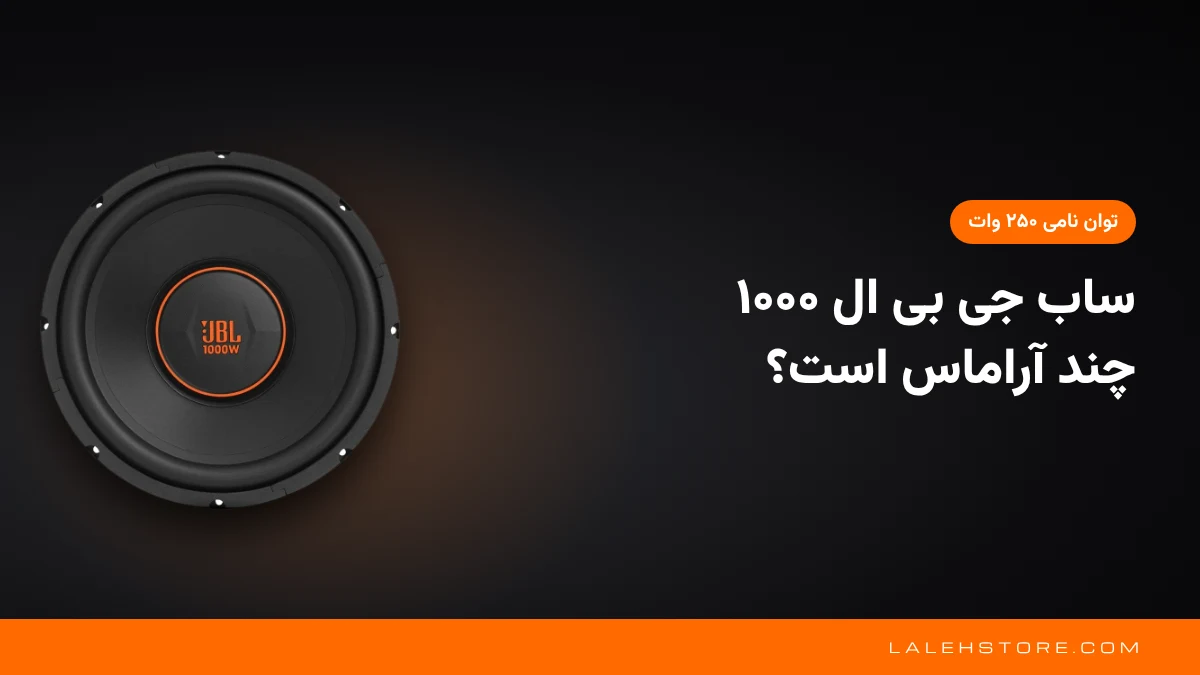
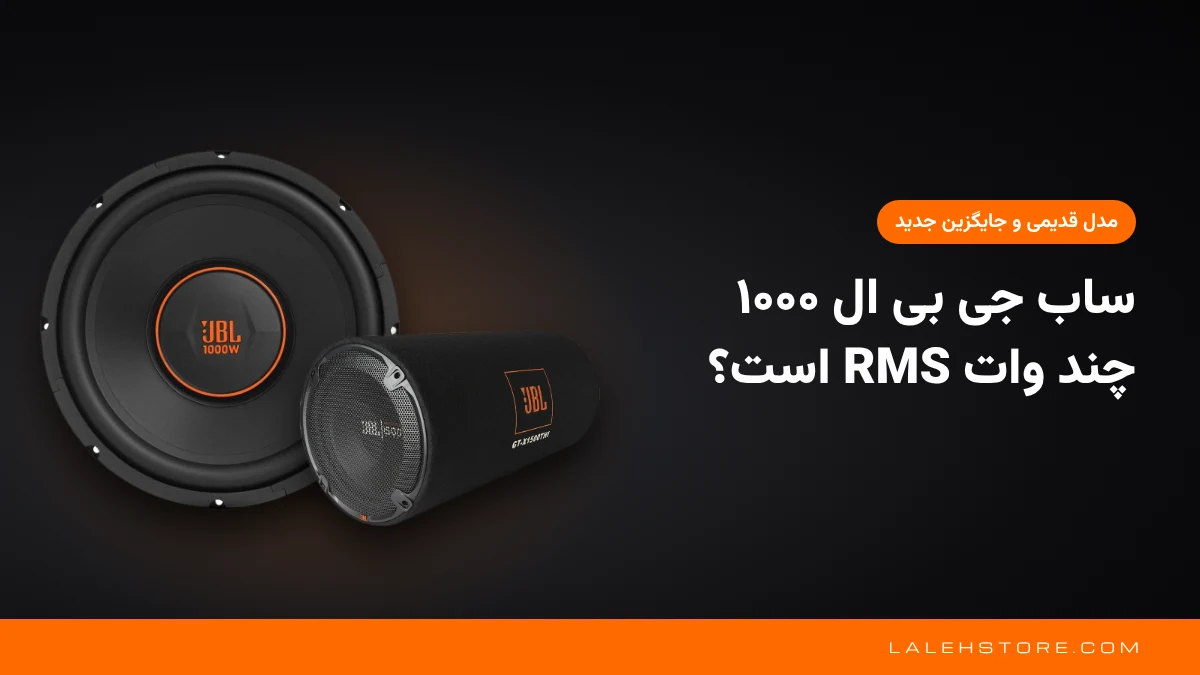
Blog #2 revised: CS1214/CS1214T as the old 'JBL 1000', GX1200 + GT-X1500THI as replacements, RMS wording
Claude-Session: https://claude.ai/code/session_01MPeMad5Ai8FMRRF9wvr7v4

Changed region(s): [[0.2467, 0.4978, 0.4933, 0.8089], [0.5858, 0.4978, 0.8942, 0.5911], [0.7092, 0.28, 0.925, 0.3733]]

diff --git a/blog/02-jbl-1000-subwoofer-rms/article.html b/blog/02-jbl-1000-subwoofer-rms/article.html
@@ -1,21 +1,32 @@
-<p style="text-align:justify;text-justify:inter-word">ساب جی بی ال ۱۰۰۰ در واقع همان <a href="https://lalehstore.com/jbl-gx1200/">ساب جی بی ال GX1200</a> است و توان نامی (RMS) آن ۲۵۰ وات است. عدد 1000W که روی درپوش وسط ساب نوشته شده، توان پیک یعنی حداکثر توان لحظه ای است، نه توان پیوسته. این ساب ۱۲ اینچ، تک کویل ۴ اهم است و به آمپی با خروجی حدود ۲۵۰ وات RMS در ۴ اهم نیاز دارد.</p>
+<p style="text-align:justify;text-justify:inter-word">ساب جی بی ال ۱۰۰۰ در بازار ایران نام مدل CS1214 جی بی ال بود؛ یک ساب ۱۲ اینچ با ۲۵۰ وات RMS و ۱۰۰۰ وات پیک که نسخه ساب باکس لوله ای آن CS1214T نام داشت. تولید CS1214 طبق صفحه رسمی جی بی ال سال ۲۰۱۳ تمام شد و امروز <a href="https://lalehstore.com/jbl-gx1200/">ساب جی بی ال GX1200</a> با همان ۲۵۰ وات RMS و ۴ اهم جایگزین آن است.</p>
 
-<p style="text-align:justify;text-justify:inter-word">در این مقاله مشخصات واقعی ساب جی بی ال ۱۰۰۰ را از روی ویژگیهای ثبت شده محصول میبینید، فرق RMS و پیک را با یک مثال ساده توضیح میدهیم، میگوییم چه آمپی برایش مناسب است و در آخر جایگزینهای جدیدتر جی بی ال را کنار آن مقایسه میکنیم. اگر هنوز بین انواع ساب مردد هستید، اول <a href="https://lalehstore.com/best-car-subwoofer/">راهنمای بهترین ساب ووفر ماشین</a> را بخوانید.</p>
+<p style="text-align:justify;text-justify:inter-word">در این مقاله مشخصات واقعی ساب جی بی ال ۱۰۰۰ قدیمی و ساب باکس آن را از صفحه پشتیبانی رسمی جی بی ال میبینید، آن را با مدلهای جدید مقایسه میکنیم، فرق RMS و پیک را توضیح میدهیم و میگوییم چه آمپی برای جایگزین آن مناسب است. اگر هنوز بین انواع ساب مردد هستید، اول <a href="https://lalehstore.com/best-car-subwoofer/">راهنمای بهترین ساب ووفر ماشین</a> را بخوانید.</p>
 
-{{IMG:jbl-gx1200-1000w-specs}}
+<h2>ساب جی بی ال ۱۰۰۰ کدام مدل بود؟</h2>
+<p style="text-align:justify;text-justify:inter-word">در بازار ایران به ساب ۱۲ اینچ CS1214 جی بی ال «ساب جی بی ال ۱۰۰۰» میگفتند، چون توان پیک آن ۱۰۰۰ وات بود. این ساب و نسخه ساب باکسش سالها از پرطرفدارترین سابهای بازار بودند. عدد ۱۲ در نام مدل به سایز ۱۲ اینچ اشاره دارد و عدد ۱۰۰۰ که خریدارها به خاطر میسپردند، توان پیک است، نه توان پیوسته.</p>
 
-<h2>چرا به GX1200 میگویند ساب جی بی ال ۱۰۰۰؟</h2>
-<p style="text-align:justify;text-justify:inter-word">روی درپوش مرکزی مخروط GX1200 با رنگ نارنجی عبارت JBL 1000W چاپ شده است. خریدار وقتی ساب را در ویترین یا عکس میبیند، همین عدد را به خاطر میسپارد و در بازار ایران این ساب با نام «ساب جی بی ال ۱۰۰۰» شناخته میشود. نام رسمی مدل در کاتالوگ جی بی ال GX1200 است؛ عدد ۱۲ در این نام به سایز ۱۲ اینچ اشاره دارد، نه به توان.</p>
-<p style="text-align:justify;text-justify:inter-word">همین الگو در سابهای دیگر جی بی ال هم دیده میشود. مثلاً روی درپوش <a href="https://lalehstore.com/jbl-a1500hi/">ساب جی بی ال A1500HI</a> عدد 1500 حک شده و به آن «ساب جی بی ال ۱۵۰۰» میگویند. در هر دو مورد، عدد روی درپوش توان پیک است.</p>
+<h3>مشخصات رسمی CS1214 (ساب تکی)</h3>
+<p style="text-align:justify;text-justify:inter-word">طبق صفحه پشتیبانی رسمی جی بی ال:</p>
+<ul>
+<li style="text-align:justify;text-justify:inter-word">سایز: ۱۲ اینچ (۳۰ سانتی متر)، با آهنربای دوبل؛ مناسب باکس بسته، پورت دار و باند پس</li>
+<li style="text-align:justify;text-justify:inter-word">توان RMS: ۲۵۰ وات</li>
+<li style="text-align:justify;text-justify:inter-word">توان پیک: ۱۰۰۰ وات</li>
+<li style="text-align:justify;text-justify:inter-word">مقاومت: ۴ اهم</li>
+<li style="text-align:justify;text-justify:inter-word">حساسیت: ۹۰ دسی بل</li>
+<li style="text-align:justify;text-justify:inter-word">پاسخ فرکانسی: ۳۵ تا ۲۰۰ هرتز</li>
+<li style="text-align:justify;text-justify:inter-word">عمق نصب: ۱۵۳ میلی متر</li>
+<li style="text-align:justify;text-justify:inter-word">سال تولید: ۲۰۰۸ تا ۲۰۱۳</li>
+</ul>
 
-<h3>یک مدل قدیمی با اسم مشابه: Grand Touring GT 1000</h3>
-<p style="text-align:justify;text-justify:inter-word">در صفحه پشتیبانی رسمی جی بی ال مدلی به نام Grand Touring GT 1000 هم ثبت شده که ربطی به GX1200 ندارد. طبق همان صفحه، GT 1000 یک ساب ۱۰ اینچ ۴ اهم بوده که فقط بین سالهای ۱۹۹۸ تا ۱۹۹۹ تولید شده است؛ توان پیشنهادی آمپ برایش ۱۸ تا ۲۵۰ وات RMS، حساسیتش ۹۴ دسی بل و جانشین آن مدل GT 1041 اعلام شده است. نسخه دو کویل آن (GT 1000D) هم بسته به سیم بندی ۲ یا ۸ اهم بوده است. اگر کسی امروز از «ساب جی بی ال ۱۰۰۰ نو» صحبت میکند، منظورش تقریباً همیشه ساب ۱۲ اینچی است که 1000W روی درپوشش نوشته شده، نه این مدل ۲۷ ساله.</p>
+<h3>مشخصات رسمی CS1214T (ساب باکس لوله ای)</h3>
+<p style="text-align:justify;text-justify:inter-word">CS1214T همان ساب ۱۲ اینچ ۱۰۰۰ واتی است که داخل یک باکس لوله ای (Bass Tube) قرار گرفته بود. طبق صفحه رسمی این مدل، توان RMS آن ۲۵۰ وات، توان پیک ۱۰۰۰ وات، مقاومت ۴ اهم، حساسیت ۹۰ دسی بل و پاسخ فرکانسی ۳۵ تا ۲۰۰ هرتز است. ابعاد آن ۱۳ در ۲۶ اینچ (حدود ۳۳ در ۶۶ سانتی متر) اعلام شده است.</p>
+<p style="text-align:justify;text-justify:inter-word">پس جواب کوتاه سؤال «ساب جی بی ال ۱۰۰۰ چند وات RMS است؟» برای هر دو مدل قدیمی ۲۵۰ وات است. این عدد را باید ملاک انتخاب آمپ قرار دهید، نه ۱۰۰۰ وات.</p>
 
-<h2>مشخصات واقعی ساب جی بی ال ۱۰۰۰ (GX1200)</h2>
-<p style="text-align:justify;text-justify:inter-word">عددهای زیر از ویژگیهای ثبت شده در صفحه محصول GX1200 در لاله استور آمده است:</p>
+<h2>جایگزین جدید ساب جی بی ال ۱۰۰۰: GX1200</h2>
+<p style="text-align:justify;text-justify:inter-word">CS1214 دیگر تولید نمی شود و اگر امروز کسی آن را به عنوان «نو» عرضه کند، باید با احتیاط بیشتری بررسی شود. نزدیک ترین مدل فعلی جی بی ال به آن GX1200 است. عددهای زیر از ویژگیهای ثبت شده در صفحه محصول GX1200 در لاله استور آمده است:</p>
 <ul>
 <li style="text-align:justify;text-justify:inter-word">سایز: ۱۲ اینچ (حدود ۳۰ سانتی متر)</li>
-<li style="text-align:justify;text-justify:inter-word">توان نامی (RMS): ۲۵۰ وات</li>
+<li style="text-align:justify;text-justify:inter-word">توان RMS (نامی): ۲۵۰ وات</li>
 <li style="text-align:justify;text-justify:inter-word">حداکثر توان ورودی (پیک): ۱۰۰۰ وات</li>
 <li style="text-align:justify;text-justify:inter-word">مقاومت: ۴ اهم، تک کویل</li>
 <li style="text-align:justify;text-justify:inter-word">پاسخ فرکانسی: ۳۵ تا ۲۰۰ هرتز</li>
@@ -23,15 +34,36 @@
 <li style="text-align:justify;text-justify:inter-word">عمق نصب: ۱۵۲ میلی متر</li>
 <li style="text-align:justify;text-justify:inter-word">ضمانت: ۱۲ ماه ضمانت صوت ایران کیش</li>
 </ul>
-<p style="text-align:justify;text-justify:inter-word">پس جواب کوتاه سؤال «ساب جی بی ال ۱۰۰۰ چند آراماس است؟» میشود ۲۵۰ وات. این عدد را باید ملاک انتخاب آمپ قرار دهید، نه ۱۰۰۰ وات.</p>
+<p style="text-align:justify;text-justify:inter-word">همان طور که میبینید، توان RMS، توان پیک، مقاومت، حساسیت و پاسخ فرکانسی GX1200 با CS1214 یکی است و عمق نصب فقط یک میلی متر کمتر است. یعنی اگر باکسی برای CS1214 دارید، GX1200 از نظر عمق در آن جا میشود و آمپی که برای ساب قبلی داشتید، برای این ساب هم مناسب است. روی درپوش وسط GX1200 هم عبارت JBL 1000W چاپ شده و به همین دلیل امروز به این مدل هم ساب جی بی ال ۱۰۰۰ میگویند.</p>
+
+{{IMG:jbl-gx1200-1000w-specs}}
+
+<div class="ls-table-scroll" style="overflow-x:auto;-webkit-overflow-scrolling:touch;max-width:100%;margin:0 0 1.5em">
+<table style="width:100%;border-collapse:collapse;font-size:14px;line-height:1.7;margin:0">
+<thead><tr><th style="padding:8px 10px;vertical-align:middle;border-bottom:1px solid #e3e3e3;text-align:right;white-space:normal;min-width:120px;max-width:170px;background:#f4f4f4;font-weight:700">مشخصه</th><th style="padding:8px 10px;vertical-align:middle;border-bottom:1px solid #e3e3e3;text-align:center;white-space:nowrap;background:#f4f4f4;font-weight:700">CS1214 (قدیمی)</th><th style="padding:8px 10px;vertical-align:middle;border-bottom:1px solid #e3e3e3;text-align:center;white-space:nowrap;background:#f4f4f4;font-weight:700">GX1200 (جدید)</th></tr></thead>
+<tbody>
+<tr><td style="padding:8px 10px;vertical-align:middle;border-bottom:1px solid #e3e3e3;text-align:right;white-space:normal;min-width:120px;max-width:170px">سایز (اینچ)</td><td style="padding:8px 10px;vertical-align:middle;border-bottom:1px solid #e3e3e3;text-align:center;white-space:nowrap">12</td><td style="padding:8px 10px;vertical-align:middle;border-bottom:1px solid #e3e3e3;text-align:center;white-space:nowrap">12</td></tr>
+<tr><td style="padding:8px 10px;vertical-align:middle;border-bottom:1px solid #e3e3e3;text-align:right;white-space:normal;min-width:120px;max-width:170px">توان RMS (وات)</td><td style="padding:8px 10px;vertical-align:middle;border-bottom:1px solid #e3e3e3;text-align:center;white-space:nowrap">250</td><td style="padding:8px 10px;vertical-align:middle;border-bottom:1px solid #e3e3e3;text-align:center;white-space:nowrap">250</td></tr>
+<tr><td style="padding:8px 10px;vertical-align:middle;border-bottom:1px solid #e3e3e3;text-align:right;white-space:normal;min-width:120px;max-width:170px">توان پیک (وات)</td><td style="padding:8px 10px;vertical-align:middle;border-bottom:1px solid #e3e3e3;text-align:center;white-space:nowrap">1000</td><td style="padding:8px 10px;vertical-align:middle;border-bottom:1px solid #e3e3e3;text-align:center;white-space:nowrap">1000</td></tr>
+<tr><td style="padding:8px 10px;vertical-align:middle;border-bottom:1px solid #e3e3e3;text-align:right;white-space:normal;min-width:120px;max-width:170px">مقاومت (اهم)</td><td style="padding:8px 10px;vertical-align:middle;border-bottom:1px solid #e3e3e3;text-align:center;white-space:nowrap">4</td><td style="padding:8px 10px;vertical-align:middle;border-bottom:1px solid #e3e3e3;text-align:center;white-space:nowrap">4</td></tr>
+<tr><td style="padding:8px 10px;vertical-align:middle;border-bottom:1px solid #e3e3e3;text-align:right;white-space:normal;min-width:120px;max-width:170px">حساسیت (dB)</td><td style="padding:8px 10px;vertical-align:middle;border-bottom:1px solid #e3e3e3;text-align:center;white-space:nowrap">90</td><td style="padding:8px 10px;vertical-align:middle;border-bottom:1px solid #e3e3e3;text-align:center;white-space:nowrap">90</td></tr>
+<tr><td style="padding:8px 10px;vertical-align:middle;border-bottom:1px solid #e3e3e3;text-align:right;white-space:normal;min-width:120px;max-width:170px">پاسخ فرکانسی (هرتز)</td><td style="padding:8px 10px;vertical-align:middle;border-bottom:1px solid #e3e3e3;text-align:center;white-space:nowrap">35 – 200</td><td style="padding:8px 10px;vertical-align:middle;border-bottom:1px solid #e3e3e3;text-align:center;white-space:nowrap">35 – 200</td></tr>
+<tr><td style="padding:8px 10px;vertical-align:middle;border-bottom:1px solid #e3e3e3;text-align:right;white-space:normal;min-width:120px;max-width:170px">عمق نصب (میلی متر)</td><td style="padding:8px 10px;vertical-align:middle;border-bottom:1px solid #e3e3e3;text-align:center;white-space:nowrap">153</td><td style="padding:8px 10px;vertical-align:middle;border-bottom:1px solid #e3e3e3;text-align:center;white-space:nowrap">152</td></tr>
+</tbody></table></div>
+
+<h2>جایگزین ساب باکس جی بی ال ۱۰۰۰: GT-X1500THI</h2>
+<p style="text-align:justify;text-justify:inter-word">اگر ساب باکس لوله ای CS1214T را میخواستید، جایگزین امروزی آن <a href="https://lalehstore.com/jbl-gt-x1500t/">ساب باکس جی بی ال GT-X1500THI</a> است؛ یک ساب ۱۲ اینچ که داخل باکس لوله ای پورت دار آماده نصب عرضه میشود. طبق صفحه محصول، توان RMS آن ۳۲۵ وات، توان پیک ۱۵۰۰ وات، مقاومت ۴ اهم، حساسیت ۹۰ دسی بل و پاسخ فرکانسی ۳۵ تا ۲۰۰ هرتز است. ابعاد آن هم حدود ۳۳ در ۶۶ سانتی متر است، یعنی تقریباً همان جایی را در صندوق میگیرد که CS1214T میگرفت.</p>
+<p style="text-align:justify;text-justify:inter-word">تفاوت اصلی این است که GT-X1500THI حدود ۷۵ وات RMS بیشتر از مدل قدیمی تحمل میکند. با آمپی که برای CS1214T داشتید هم کار میکند، اما برای استفاده از تمام توانش آمپی با خروجی حدود ۳۲۵ وات RMS در ۴ اهم لازم است. روی درپوش این ساب عدد 1500 دیده میشود و در بازار به آن ساب باکس جی بی ال ۱۵۰۰ هم میگویند.</p>
+
+{{IMG:jbl-1000-old-vs-new-sub-tube}}
 
 <h2>RMS و پیک چه فرقی دارند؟</h2>
 <p style="text-align:justify;text-justify:inter-word">توان RMS یا نامی، توانی است که ساب میتواند به صورت پیوسته و طولانی تحمل کند، مثلاً وقتی یک آهنگ پربیس را چند دقیقه با صدای بلند پخش میکنید. توان پیک، حداکثر توانی است که ساب فقط در یک لحظه کوتاه، مثل یک ضربه ناگهانی درام، تحمل میکند.</p>
-<p style="text-align:justify;text-justify:inter-word">مثال ساده: اگر یک آمپ ۱۰۰۰ وات RMS به GX1200 بدهید و ولوم را بالا ببرید، ساب چهار برابر توان پیوسته ای که برایش طراحی شده را دریافت میکند و کویل آن داغ میشود. برعکس، اگر آمپ خیلی ضعیف باشد، بیس در ولوم بالا کم جان میشود و آمپ زودتر به اعوجاج (کلیپ) میرسد. بهترین حالت آمپی است که خروجی RMS آن نزدیک ۲۵۰ وات در ۴ اهم باشد.</p>
-<p style="text-align:justify;text-justify:inter-word">یک نکته دیگر: عدد «حداکثر توان» روی جعبه آمپها هم معمولاً پیک است. مثلاً آمپ کنوود 804 روی کاغذ ۱۰۰۰ وات حداکثر توان دارد، اما توان نامی آن ۸۰ وات RMS در هر کانال در ۴ اهم است. برای جفت کردن ساب و آمپ، همیشه RMS را با RMS مقایسه کنید.</p>
+<p style="text-align:justify;text-justify:inter-word">مثال ساده: اگر یک آمپ ۱۰۰۰ وات RMS به یک ساب ۲۵۰ وات RMS بدهید و ولوم را بالا ببرید، ساب چهار برابر توان پیوسته ای که برایش طراحی شده را دریافت میکند و کویل آن داغ میشود. برعکس، اگر آمپ خیلی ضعیف باشد، بیس در ولوم بالا کم جان میشود و آمپ زودتر به اعوجاج (کلیپ) میرسد. بهترین حالت آمپی است که خروجی RMS آن نزدیک توان RMS ساب باشد.</p>
+<p style="text-align:justify;text-justify:inter-word">عدد «حداکثر توان» روی جعبه آمپها هم معمولاً پیک است. مثلاً آمپ کنوود 804 روی کاغذ ۱۰۰۰ وات حداکثر توان دارد، اما توان RMS آن ۸۰ وات در هر کانال در ۴ اهم است. برای جفت کردن ساب و آمپ، همیشه RMS را با RMS مقایسه کنید.</p>
 
 <h2>ساب جی بی ال ۱۰۰۰ با چه آمپی کار میکند؟</h2>
-<p style="text-align:justify;text-justify:inter-word">GX1200 ساب پسیو است و بدون آمپ جدا کار نمی کند؛ خروجی پخش ماشین برای راه انداختن آن کافی نیست. چون کویل آن ۴ اهم است، دو راه رایج دارید:</p>
+<p style="text-align:justify;text-justify:inter-word">CS1214 و جایگزینش GX1200 هر دو ساب پسیو هستند و بدون آمپ جدا کار نمی کنند؛ خروجی پخش ماشین برای راه انداختن آنها کافی نیست. چون کویل آنها ۴ اهم است، دو راه رایج دارید:</p>
 <h3>۱. آمپ ۴ کانال با بریج کردن دو کانال</h3>
 <p style="text-align:justify;text-justify:inter-word">اگر میخواهید با یک آمپ هم باندهای جلو و هم ساب را راه بیندازید، آمپ ۴ کانالی که قابلیت بریج دارد انتخاب منطقی است. دو کانال به باندها میرود و دو کانال دیگر به صورت بریج به ساب وصل میشود. طبق صفحه محصول، <a href="https://lalehstore.com/jbl-concert-a704/">آمپلی فایر جی بی ال Concert A704</a> در هر کانال ۷۰ وات RMS در ۴ اهم و در حالت بریج ۱۸۰ وات در ۴ اهم میدهد. آمپلی فایر کنوود 804 هم ۸۰ وات RMS در هر کانال و در بریج ۱۷۰ وات در ۴ اهم دارد. هر دو کمتر از ۲۵۰ وات هستند، یعنی ساب با توانی پایین تر از سقف نامی اش کار میکند؛ این حالت ایمن است و برای بیشتر کاربران بیس کافی میدهد.</p>
 
@@ -49,59 +81,46 @@
 </ul>
 <p style="text-align:justify;text-justify:inter-word">همه مدلهای آمپ را در <a href="https://lalehstore.com/amplifier/">دسته آمپلی فایر ماشین</a> ببینید.</p>
 
-<h2>باکس مناسب ساب جی بی ال ۱۰۰۰</h2>
-<p style="text-align:justify;text-justify:inter-word">GX1200 مثل هر ساب تکی باید در باکس نصب شود؛ ساب بدون باکس بیس عمیق تولید نمی کند، چون موج جلو و پشت مخروط همدیگر را خنثی میکنند. باکس بسته بیس جمع و دقیق تری میدهد و باکس پورت دار (دریچه دار) در همان توان، بیس بلندتر و پرحجم تری دارد اما جای بیشتری در صندوق میگیرد. عمق نصب این ساب ۱۵۲ میلی متر است؛ یعنی باکس باید از داخل کمی بیشتر از ۱۵ سانتی متر عمق داشته باشد.</p>
+<h2>باکس مناسب برای ساب تکی</h2>
+<p style="text-align:justify;text-justify:inter-word">ساب تکی مثل CS1214 یا GX1200 باید در باکس نصب شود؛ ساب بدون باکس بیس عمیق تولید نمی کند، چون موج جلو و پشت مخروط همدیگر را خنثی میکنند. باکس بسته بیس جمع و دقیق تری میدهد و باکس پورت دار (دریچه دار) در همان توان، بیس بلندتر و پرحجم تری دارد اما جای بیشتری در صندوق میگیرد. عمق نصب GX1200 ۱۵۲ میلی متر است؛ یعنی باکس باید از داخل کمی بیشتر از ۱۵ سانتی متر عمق داشته باشد. اگر نمی خواهید باکس جدا بسازید، ساب باکس آماده GT-X1500THI انتخاب ساده تری است.</p>
 
-<h2>جایگزینهای جدید ساب جی بی ال ۱۰۰۰</h2>
-<p style="text-align:justify;text-justify:inter-word">اگر دنبال ساب جی بی ال ۱۰۰۰ هستید، چند مدل دیگر هم هست که بسته به فضای صندوق و آمپ شما ممکن است انتخاب بهتری باشند. جدول زیر فقط از ویژگیهای ثبت شده در صفحات محصول سایت ساخته شده است:</p>
+<h2>گزینههای دیگر جی بی ال کنار ساب ۱۰۰۰</h2>
+<p style="text-align:justify;text-justify:inter-word">بسته به فضای صندوق و آمپ شما، این مدلها هم ارزش دیدن دارند. جدول زیر فقط از ویژگیهای ثبت شده در صفحات محصول سایت ساخته شده است:</p>
 
 <div class="ls-table-scroll" style="overflow-x:auto;-webkit-overflow-scrolling:touch;max-width:100%;margin:0 0 1.5em">
 <table style="width:100%;border-collapse:collapse;font-size:14px;line-height:1.7;margin:0">
-<thead><tr>
-<th style="padding:8px 10px;text-align:right;vertical-align:middle;white-space:normal;min-width:120px;max-width:170px;border-bottom:1px solid #e3e3e3;background:#f4f4f4;font-weight:700">مدل</th>
-<th style="padding:8px 10px;text-align:center;vertical-align:middle;white-space:nowrap;border-bottom:1px solid #e3e3e3;background:#f4f4f4;font-weight:700">سایز (اینچ)</th>
-<th style="padding:8px 10px;text-align:center;vertical-align:middle;white-space:nowrap;border-bottom:1px solid #e3e3e3;background:#f4f4f4;font-weight:700">RMS (وات)</th>
-<th style="padding:8px 10px;text-align:center;vertical-align:middle;white-space:nowrap;border-bottom:1px solid #e3e3e3;background:#f4f4f4;font-weight:700">پیک (وات)</th>
-<th style="padding:8px 10px;text-align:center;vertical-align:middle;white-space:nowrap;border-bottom:1px solid #e3e3e3;background:#f4f4f4;font-weight:700">مقاومت (اهم)</th>
-<th style="padding:8px 10px;text-align:center;vertical-align:middle;white-space:nowrap;border-bottom:1px solid #e3e3e3;background:#f4f4f4;font-weight:700">حساسیت (dB)</th>
-</tr></thead>
+<thead><tr><th style="padding:8px 10px;vertical-align:middle;border-bottom:1px solid #e3e3e3;text-align:right;white-space:normal;min-width:120px;max-width:170px;background:#f4f4f4;font-weight:700">مدل</th><th style="padding:8px 10px;vertical-align:middle;border-bottom:1px solid #e3e3e3;text-align:center;white-space:nowrap;background:#f4f4f4;font-weight:700">سایز (اینچ)</th><th style="padding:8px 10px;vertical-align:middle;border-bottom:1px solid #e3e3e3;text-align:center;white-space:nowrap;background:#f4f4f4;font-weight:700">RMS (وات)</th><th style="padding:8px 10px;vertical-align:middle;border-bottom:1px solid #e3e3e3;text-align:center;white-space:nowrap;background:#f4f4f4;font-weight:700">پیک (وات)</th><th style="padding:8px 10px;vertical-align:middle;border-bottom:1px solid #e3e3e3;text-align:center;white-space:nowrap;background:#f4f4f4;font-weight:700">مقاومت (اهم)</th><th style="padding:8px 10px;vertical-align:middle;border-bottom:1px solid #e3e3e3;text-align:center;white-space:nowrap;background:#f4f4f4;font-weight:700">حساسیت (dB)</th></tr></thead>
 <tbody>
-<tr><td style="padding:8px 10px;text-align:right;vertical-align:middle;white-space:normal;min-width:120px;max-width:170px;border-bottom:1px solid #e3e3e3"><a href="https://lalehstore.com/jbl-gx1200/">GX1200</a><br><small>ساب جی بی ال ۱۰۰۰</small></td><td style="padding:8px 10px;text-align:center;vertical-align:middle;white-space:nowrap;border-bottom:1px solid #e3e3e3">12</td><td style="padding:8px 10px;text-align:center;vertical-align:middle;white-space:nowrap;border-bottom:1px solid #e3e3e3">250</td><td style="padding:8px 10px;text-align:center;vertical-align:middle;white-space:nowrap;border-bottom:1px solid #e3e3e3">1000</td><td style="padding:8px 10px;text-align:center;vertical-align:middle;white-space:nowrap;border-bottom:1px solid #e3e3e3">4</td><td style="padding:8px 10px;text-align:center;vertical-align:middle;white-space:nowrap;border-bottom:1px solid #e3e3e3">90</td></tr>
-<tr><td style="padding:8px 10px;text-align:right;vertical-align:middle;white-space:normal;min-width:120px;max-width:170px;border-bottom:1px solid #e3e3e3"><a href="https://lalehstore.com/jbl-stage-122/">Stage 122</a></td><td style="padding:8px 10px;text-align:center;vertical-align:middle;white-space:nowrap;border-bottom:1px solid #e3e3e3">12</td><td style="padding:8px 10px;text-align:center;vertical-align:middle;white-space:nowrap;border-bottom:1px solid #e3e3e3">250</td><td style="padding:8px 10px;text-align:center;vertical-align:middle;white-space:nowrap;border-bottom:1px solid #e3e3e3">1000</td><td style="padding:8px 10px;text-align:center;vertical-align:middle;white-space:nowrap;border-bottom:1px solid #e3e3e3">4</td><td style="padding:8px 10px;text-align:center;vertical-align:middle;white-space:nowrap;border-bottom:1px solid #e3e3e3">91</td></tr>
-<tr><td style="padding:8px 10px;text-align:right;vertical-align:middle;white-space:normal;min-width:120px;max-width:170px;border-bottom:1px solid #e3e3e3"><a href="https://lalehstore.com/jbl-club-ws1200/">Club WS1200</a><br><small>کم عمق</small></td><td style="padding:8px 10px;text-align:center;vertical-align:middle;white-space:nowrap;border-bottom:1px solid #e3e3e3">12</td><td style="padding:8px 10px;text-align:center;vertical-align:middle;white-space:nowrap;border-bottom:1px solid #e3e3e3">250</td><td style="padding:8px 10px;text-align:center;vertical-align:middle;white-space:nowrap;border-bottom:1px solid #e3e3e3">1000</td><td style="padding:8px 10px;text-align:center;vertical-align:middle;white-space:nowrap;border-bottom:1px solid #e3e3e3">2 / 4</td><td style="padding:8px 10px;text-align:center;vertical-align:middle;white-space:nowrap;border-bottom:1px solid #e3e3e3">92</td></tr>
-<tr><td style="padding:8px 10px;text-align:right;vertical-align:middle;white-space:normal;min-width:120px;max-width:170px;border-bottom:1px solid #e3e3e3"><a href="https://lalehstore.com/jbl-a1500hi/">A1500HI</a><br><small>ساب جی بی ال ۱۵۰۰</small></td><td style="padding:8px 10px;text-align:center;vertical-align:middle;white-space:nowrap;border-bottom:1px solid #e3e3e3">12</td><td style="padding:8px 10px;text-align:center;vertical-align:middle;white-space:nowrap;border-bottom:1px solid #e3e3e3">325</td><td style="padding:8px 10px;text-align:center;vertical-align:middle;white-space:nowrap;border-bottom:1px solid #e3e3e3">1500</td><td style="padding:8px 10px;text-align:center;vertical-align:middle;white-space:nowrap;border-bottom:1px solid #e3e3e3">4</td><td style="padding:8px 10px;text-align:center;vertical-align:middle;white-space:nowrap;border-bottom:1px solid #e3e3e3">90</td></tr>
-<tr><td style="padding:8px 10px;text-align:right;vertical-align:middle;white-space:normal;min-width:120px;max-width:170px;border-bottom:1px solid #e3e3e3">Stage 102</td><td style="padding:8px 10px;text-align:center;vertical-align:middle;white-space:nowrap;border-bottom:1px solid #e3e3e3">10</td><td style="padding:8px 10px;text-align:center;vertical-align:middle;white-space:nowrap;border-bottom:1px solid #e3e3e3">225</td><td style="padding:8px 10px;text-align:center;vertical-align:middle;white-space:nowrap;border-bottom:1px solid #e3e3e3">900</td><td style="padding:8px 10px;text-align:center;vertical-align:middle;white-space:nowrap;border-bottom:1px solid #e3e3e3">4</td><td style="padding:8px 10px;text-align:center;vertical-align:middle;white-space:nowrap;border-bottom:1px solid #e3e3e3">89</td></tr>
+<tr><td style="padding:8px 10px;vertical-align:middle;border-bottom:1px solid #e3e3e3;text-align:right;white-space:normal;min-width:120px;max-width:170px"><a href="https://lalehstore.com/jbl-gx1200/">GX1200</a><br><small>جایگزین CS1214</small></td><td style="padding:8px 10px;vertical-align:middle;border-bottom:1px solid #e3e3e3;text-align:center;white-space:nowrap">12</td><td style="padding:8px 10px;vertical-align:middle;border-bottom:1px solid #e3e3e3;text-align:center;white-space:nowrap">250</td><td style="padding:8px 10px;vertical-align:middle;border-bottom:1px solid #e3e3e3;text-align:center;white-space:nowrap">1000</td><td style="padding:8px 10px;vertical-align:middle;border-bottom:1px solid #e3e3e3;text-align:center;white-space:nowrap">4</td><td style="padding:8px 10px;vertical-align:middle;border-bottom:1px solid #e3e3e3;text-align:center;white-space:nowrap">90</td></tr>
+<tr><td style="padding:8px 10px;vertical-align:middle;border-bottom:1px solid #e3e3e3;text-align:right;white-space:normal;min-width:120px;max-width:170px"><a href="https://lalehstore.com/jbl-stage-122/">Stage 122</a></td><td style="padding:8px 10px;vertical-align:middle;border-bottom:1px solid #e3e3e3;text-align:center;white-space:nowrap">12</td><td style="padding:8px 10px;vertical-align:middle;border-bottom:1px solid #e3e3e3;text-align:center;white-space:nowrap">250</td><td style="padding:8px 10px;vertical-align:middle;border-bottom:1px solid #e3e3e3;text-align:center;white-space:nowrap">1000</td><td style="padding:8px 10px;vertical-align:middle;border-bottom:1px solid #e3e3e3;text-align:center;white-space:nowrap">4</td><td style="padding:8px 10px;vertical-align:middle;border-bottom:1px solid #e3e3e3;text-align:center;white-space:nowrap">91</td></tr>
+<tr><td style="padding:8px 10px;vertical-align:middle;border-bottom:1px solid #e3e3e3;text-align:right;white-space:normal;min-width:120px;max-width:170px"><a href="https://lalehstore.com/jbl-club-ws1200/">Club WS1200</a><br><small>کم عمق</small></td><td style="padding:8px 10px;vertical-align:middle;border-bottom:1px solid #e3e3e3;text-align:center;white-space:nowrap">12</td><td style="padding:8px 10px;vertical-align:middle;border-bottom:1px solid #e3e3e3;text-align:center;white-space:nowrap">250</td><td style="padding:8px 10px;vertical-align:middle;border-bottom:1px solid #e3e3e3;text-align:center;white-space:nowrap">1000</td><td style="padding:8px 10px;vertical-align:middle;border-bottom:1px solid #e3e3e3;text-align:center;white-space:nowrap">2 / 4</td><td style="padding:8px 10px;vertical-align:middle;border-bottom:1px solid #e3e3e3;text-align:center;white-space:nowrap">92</td></tr>
+<tr><td style="padding:8px 10px;vertical-align:middle;border-bottom:1px solid #e3e3e3;text-align:right;white-space:normal;min-width:120px;max-width:170px">A1500HI<br><small>ساب جی بی ال ۱۵۰۰</small></td><td style="padding:8px 10px;vertical-align:middle;border-bottom:1px solid #e3e3e3;text-align:center;white-space:nowrap">12</td><td style="padding:8px 10px;vertical-align:middle;border-bottom:1px solid #e3e3e3;text-align:center;white-space:nowrap">325</td><td style="padding:8px 10px;vertical-align:middle;border-bottom:1px solid #e3e3e3;text-align:center;white-space:nowrap">1500</td><td style="padding:8px 10px;vertical-align:middle;border-bottom:1px solid #e3e3e3;text-align:center;white-space:nowrap">4</td><td style="padding:8px 10px;vertical-align:middle;border-bottom:1px solid #e3e3e3;text-align:center;white-space:nowrap">90</td></tr>
+<tr><td style="padding:8px 10px;vertical-align:middle;border-bottom:1px solid #e3e3e3;text-align:right;white-space:normal;min-width:120px;max-width:170px"><a href="https://lalehstore.com/jbl-gt-x1500t/">GT-X1500THI</a><br><small>ساب باکس لوله ای</small></td><td style="padding:8px 10px;vertical-align:middle;border-bottom:1px solid #e3e3e3;text-align:center;white-space:nowrap">12</td><td style="padding:8px 10px;vertical-align:middle;border-bottom:1px solid #e3e3e3;text-align:center;white-space:nowrap">325</td><td style="padding:8px 10px;vertical-align:middle;border-bottom:1px solid #e3e3e3;text-align:center;white-space:nowrap">1500</td><td style="padding:8px 10px;vertical-align:middle;border-bottom:1px solid #e3e3e3;text-align:center;white-space:nowrap">4</td><td style="padding:8px 10px;vertical-align:middle;border-bottom:1px solid #e3e3e3;text-align:center;white-space:nowrap">90</td></tr>
+<tr><td style="padding:8px 10px;vertical-align:middle;border-bottom:1px solid #e3e3e3;text-align:right;white-space:normal;min-width:120px;max-width:170px">Stage 102</td><td style="padding:8px 10px;vertical-align:middle;border-bottom:1px solid #e3e3e3;text-align:center;white-space:nowrap">10</td><td style="padding:8px 10px;vertical-align:middle;border-bottom:1px solid #e3e3e3;text-align:center;white-space:nowrap">225</td><td style="padding:8px 10px;vertical-align:middle;border-bottom:1px solid #e3e3e3;text-align:center;white-space:nowrap">900</td><td style="padding:8px 10px;vertical-align:middle;border-bottom:1px solid #e3e3e3;text-align:center;white-space:nowrap">4</td><td style="padding:8px 10px;vertical-align:middle;border-bottom:1px solid #e3e3e3;text-align:center;white-space:nowrap">89</td></tr>
 </tbody></table></div>
 
-<h3>Stage 122؛ نزدیک ترین جایگزین</h3>
-<p style="text-align:justify;text-justify:inter-word"><a href="https://lalehstore.com/jbl-stage-122/">ساب جی بی ال Stage 122</a> روی کاغذ تقریباً هم رده GX1200 است: ۱۲ اینچ، ۲۵۰ وات RMS، ۱۰۰۰ وات پیک و ۴ اهم. تفاوت در جزئیات است: حساسیت ۹۱ دسی بل در برابر ۹۰ و پاسخ فرکانسی از ۳۴ هرتز در برابر ۳۵. عمق نصب هر دو حدود ۱۵ سانتی متر است، پس در همان باکس جا میشوند و آمپ مناسبشان هم یکی است.</p>
+<h3>Stage 122؛ هم رده GX1200</h3>
+<p style="text-align:justify;text-justify:inter-word"><a href="https://lalehstore.com/jbl-stage-122/">ساب جی بی ال Stage 122</a> روی کاغذ هم رده GX1200 است: ۱۲ اینچ، ۲۵۰ وات RMS، ۱۰۰۰ وات پیک و ۴ اهم. تفاوت در جزئیات است: حساسیت ۹۱ دسی بل در برابر ۹۰ و پاسخ فرکانسی از ۳۴ هرتز در برابر ۳۵. عمق نصب هر دو حدود ۱۵ سانتی متر است، پس در همان باکس جا میشوند و آمپ مناسبشان هم یکی است.</p>
 <h3>Club WS1200؛ وقتی صندوق جا ندارد</h3>
-<p style="text-align:justify;text-justify:inter-word">عمق نصب <a href="https://lalehstore.com/jbl-club-ws1200/">ساب جی بی ال Club WS1200</a> فقط ۸۳ میلی متر است، یعنی کمتر از نصف GX1200. این ساب با سوییچ SSI بین ۲ و ۴ اهم قابل تغییر است و پاسخ فرکانسی آن از ۲۷ هرتز شروع میشود. برای باکسهای باریک پشت صندلی یا زیر کف صندوق مناسب است. سوییچ امپدانس را فقط وقتی آمپ خاموش است تغییر دهید.</p>
-<h3>A1500HI؛ یک پله قوی تر</h3>
-<p style="text-align:justify;text-justify:inter-word">اگر آمپ قوی تری دارید یا قصد خریدش را دارید، A1500HI با ۳۲۵ وات RMS و پاسخ فرکانسی از ۲۳ هرتز یک پله بالاتر از GX1200 است. این ساب به آمپی با خروجی حدود ۳۲۵ وات RMS نیاز دارد تا تمام توانش آزاد شود.</p>
-
-{{IMG:jbl-gx1200-vs-a1500hi}}
-
-<h3>Stage 102؛ نسخه ۱۰ اینچ</h3>
-<p style="text-align:justify;text-justify:inter-word">برای صندوقهای کوچک تر، ساب جی بی ال Stage 102 با سایز ۱۰ اینچ و ۲۲۵ وات RMS گزینه جمع و جورتری است. توان آن به ۲۵۰ وات نزدیک است، پس آمپی که برای GX1200 مناسب است برای این ساب هم جواب میدهد.</p>
+<p style="text-align:justify;text-justify:inter-word">عمق نصب <a href="https://lalehstore.com/jbl-club-ws1200/">ساب جی بی ال Club WS1200</a> فقط ۸۳ میلی متر است، یعنی کمتر از نصف CS1214 و GX1200. این ساب با سوییچ SSI بین ۲ و ۴ اهم قابل تغییر است و پاسخ فرکانسی آن از ۲۷ هرتز شروع میشود. برای باکسهای باریک پشت صندلی یا زیر کف صندوق مناسب است. سوییچ امپدانس را فقط وقتی آمپ خاموش است تغییر دهید.</p>
+<h3>A1500HI و Stage 102</h3>
+<p style="text-align:justify;text-justify:inter-word">اگر آمپ قوی تری دارید، ساب A1500HI با ۳۲۵ وات RMS و پاسخ فرکانسی از ۲۳ هرتز یک پله بالاتر از ساب ۱۰۰۰ است. برای صندوقهای کوچک تر هم Stage 102 با سایز ۱۰ اینچ و ۲۲۵ وات RMS گزینه جمع و جورتری است.</p>
 <p style="text-align:justify;text-justify:inter-word">همه این مدلها را در دسته <a href="https://lalehstore.com/car-subwoofer/sub-woofer-jbl/">ساب جی بی ال</a> میتوانید کنار هم ببینید. قیمت روز هر مدل را در صفحه محصول ببینید.</p>
 
 <h2>ساب جی بی ال ۱۰۰۰ اصل را چطور بشناسیم؟</h2>
-<p style="text-align:justify;text-justify:inter-word">روی ساب و جعبه، نام مدل GX1200 باید درج شده باشد؛ فروشنده ای که فقط از «ساب ۱۰۰۰ وات» حرف میزند و نام مدل را نمی گوید، اطلاعات کافی نداده است. مشخصات روی برچسب پشت آهنربا را با عددهای بالا (۲۵۰ وات RMS، ۴ اهم) مقایسه کنید و برگه گارانتی را بخواهید. گارانتی GX1200 در لاله استور «۱۲ ماه ضمانت صوت ایران کیش» است.</p>
+<p style="text-align:justify;text-justify:inter-word">روی ساب و جعبه، نام مدل باید درج شده باشد؛ فروشنده ای که فقط از «ساب ۱۰۰۰ وات» حرف میزند و نام مدل را نمی گوید، اطلاعات کافی نداده است. CS1214 از سال ۲۰۱۳ تولید نمی شود، پس اگر به عنوان نو عرضه میشود، درباره منشأ و گارانتی آن سؤال کنید. مشخصات روی برچسب پشت آهنربا را با عددهای بالا (۲۵۰ وات RMS، ۴ اهم) مقایسه کنید و برگه گارانتی را بخواهید. گارانتی GX1200 در لاله استور «۱۲ ماه ضمانت صوت ایران کیش» است.</p>
 
 <h2>سؤالات متداول</h2>
-<h3>ساب جی بی ال ۱۰۰۰ چند وات است؟</h3>
-<p style="text-align:justify;text-justify:inter-word">توان نامی (RMS) آن ۲۵۰ وات و توان پیک آن ۱۰۰۰ وات است. عدد 1000W روی درپوش، همان توان پیک است.</p>
+<h3>ساب جی بی ال ۱۰۰۰ چند وات RMS است؟</h3>
+<p style="text-align:justify;text-justify:inter-word">مدل قدیمی CS1214 و جایگزینش GX1200 هر دو ۲۵۰ وات RMS و ۱۰۰۰ وات پیک هستند. عدد ۱۰۰۰ همان توان پیک است.</p>
 <h3>اسم اصلی ساب جی بی ال ۱۰۰۰ چیست؟</h3>
-<p style="text-align:justify;text-justify:inter-word">نام مدل آن JBL GX1200 است؛ یک ساب ۱۲ اینچ تک کویل ۴ اهم از سری GX جی بی ال.</p>
-<h3>ساب جی بی ال ۱۰۰۰ چند اهم است؟</h3>
-<p style="text-align:justify;text-justify:inter-word">۴ اهم با یک کویل. میتوانید آن را به یک کانال آمپ مونو یا به دو کانال بریج آمپ ۲ یا ۴ کانال وصل کنید.</p>
+<p style="text-align:justify;text-justify:inter-word">مدل قدیمی که در ایران به این نام معروف شد CS1214 بود و نسخه ساب باکس لوله ای آن CS1214T. مدل فعلی هم رده آن JBL GX1200 است.</p>
+<h3>ساب جی بی ال ۱۰۰۰ هنوز تولید میشود؟</h3>
+<p style="text-align:justify;text-justify:inter-word">طبق صفحه رسمی جی بی ال، CS1214 بین سالهای ۲۰۰۸ تا ۲۰۱۳ تولید شده است. جایگزین ساب تکی آن GX1200 و جایگزین ساب باکس لوله ای آن GT-X1500THI است.</p>
 <h3>برای ساب جی بی ال ۱۰۰۰ چه آمپی بگیرم؟</h3>
 <p style="text-align:justify;text-justify:inter-word">آمپی با خروجی حدود ۲۵۰ وات RMS در ۴ اهم ایده آل است. آمپ ۴ کانال جی بی ال A704 در بریج ۱۸۰ وات در ۴ اهم میدهد و همزمان دو کانال برای باندهای جلو باقی میگذارد.</p>
-<h3>ساب جی بی ال ۱۰۰۰ بهتر است یا Stage 122؟</h3>
-<p style="text-align:justify;text-justify:inter-word">هر دو ۱۲ اینچ، ۲۵۰ وات RMS و ۴ اهم هستند. Stage 122 حساسیت ۹۱ دسی بل در برابر ۹۰ دارد، یعنی با همان آمپ کمی بلندتر صدا میدهد. اگر فضای صندوق کم است، Club WS1200 کم عمق را ببینید.</p>
 <h3>ساب جی بی ال ۱۰۰۰ بدون آمپ کار میکند؟</h3>
-<p style="text-align:justify;text-justify:inter-word">نه. GX1200 ساب پسیو است و حتماً به آمپلی فایر جدا نیاز دارد. اگر نمی خواهید آمپ جدا نصب کنید، ساب اکتیو را در راهنمای ساب ووفر ماشین بررسی کنید.</p>
+<p style="text-align:justify;text-justify:inter-word">نه. CS1214، GX1200 و GT-X1500THI همه پسیو هستند و حتماً به آمپلی فایر جدا نیاز دارند. اگر نمی خواهید آمپ جدا نصب کنید، ساب اکتیو را در راهنمای ساب ووفر ماشین بررسی کنید.</p>
 
 <h2>مقالات مرتبط</h2>
 <ul>
